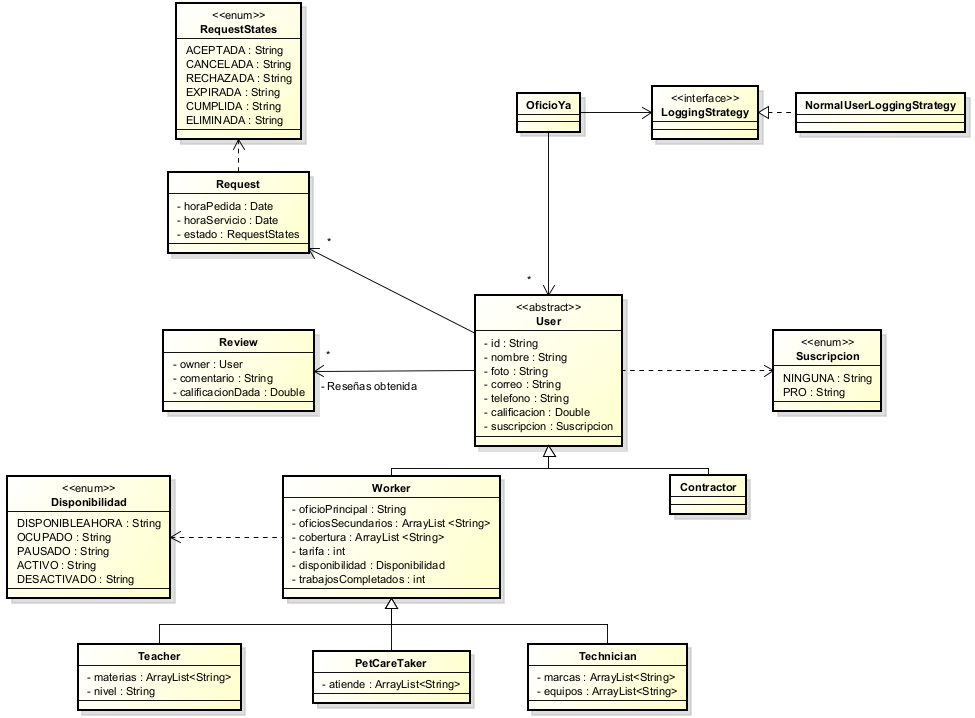
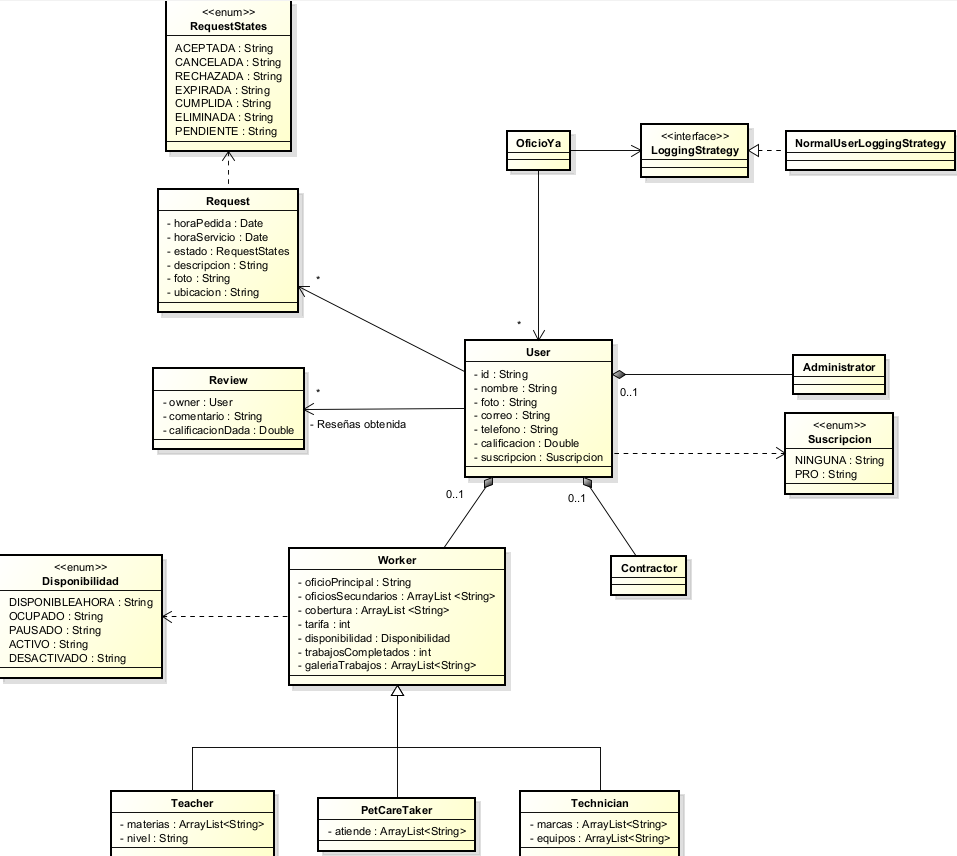
Se agregaron los cambios considerados al diagrama de clases

diff --git a/src/main/java/edu/eci/dosw/oficioya/service/Worker.java b/src/main/java/edu/eci/dosw/oficioya/service/Worker.java
@@ -1,17 +1,19 @@
 package edu.eci.dosw.oficioya.service;
 import java.util.ArrayList;
 
-public class Worker extends User{
+public class Worker{
   private String oficioPrincipal;
   private ArrayList<String> oficiosSecundarios;
   private ArrayList<String> cobertura;
   private int tarifa;
   private Disponibilidad disponibilidad;
   private int trabajosCompletados;
+  private ArrayList<String> galeriaTrabajos;
 
   public Worker(){
     this.oficiosSecundarios = new ArrayList<>();
     this.cobertura = new ArrayList<>();
+    this.galeriaTrabajos = new ArrayList<>();
     this.disponibilidad = Disponibilidad.ACTIVO;
     this.trabajosCompletados = 0;
   }

diff --git a/src/main/java/edu/eci/dosw/oficioya/OficioyaApplication.java b/src/main/java/edu/eci/dosw/oficioya/OficioyaApplication.java
@@ -2,12 +2,21 @@ package edu.eci.dosw.oficioya;
 
 import org.springframework.boot.SpringApplication;
 import org.springframework.boot.autoconfigure.SpringBootApplication;
+import java.util.HashMap;
+import edu.eci.dosw.oficioya.service.User;
+import edu.eci.dosw.oficioya.service.LoggingStrategy;
 
 @SpringBootApplication
 public class OficioyaApplication {
+	private HashMap<String,User> users;
+	private LoggingStrategy loggingStrategy;
 
 	public static void main(String[] args) {
 		SpringApplication.run(OficioyaApplication.class, args);
+	}
+
+	private void initialize(){
+		this.users = new HashMap<String,User>();
 	}
 
 }

diff --git a/src/main/java/edu/eci/dosw/oficioya/service/User.java b/src/main/java/edu/eci/dosw/oficioya/service/User.java
@@ -1,7 +1,7 @@
 package edu.eci.dosw.oficioya.service;
 import java.util.ArrayList;
 
-public abstract class User{
+public class User{
   private String id;
   private String name;
   private String foto;
@@ -11,6 +11,9 @@ public abstract class User{
   private Suscripcion suscripcion;
   private ArrayList<Review> resenasObtenidas;
   private ArrayList<Request> requests;
+  private Contractor contractor;
+  private Worker worker;
+  private Administrator admin;
 
   public User(){
     this.resenasObtenidas = new ArrayList<>();

diff --git a/src/main/java/edu/eci/dosw/oficioya/service/Request.java b/src/main/java/edu/eci/dosw/oficioya/service/Request.java
@@ -5,6 +5,9 @@ public class Request{
   private LocalDateTime horaPedida;
   private LocalDateTime horaServicio;
   private RequestStates estado;
+  private String descripcion;
+  private String foto;
+  private String ubicacion;
 
   public Request(){
 

diff --git a/src/main/java/edu/eci/dosw/oficioya/service/Contractor.java b/src/main/java/edu/eci/dosw/oficioya/service/Contractor.java
@@ -1,6 +1,6 @@
 package edu.eci.dosw.oficioya.service;
 
-public class Contractor extends User{
+public class Contractor{
   public Contractor(){
 
   }

diff --git a/src/main/java/edu/eci/dosw/oficioya/service/RequestStates.java b/src/main/java/edu/eci/dosw/oficioya/service/RequestStates.java
@@ -6,6 +6,7 @@ public enum RequestStates{
   RECHAZADA,
   EXPIRADA,
   CUMPLIDA,
-  ELIMINADA
+  ELIMINADA,
+  PENDIENTE
 }
   

diff --git a/src/main/java/edu/eci/dosw/oficioya/service/Administrator.java b/src/main/java/edu/eci/dosw/oficioya/service/Administrator.java
@@ -1,0 +1,5 @@
+package edu.eci.dosw.oficioya.service;
+
+public class Administrator {
+    
+}
